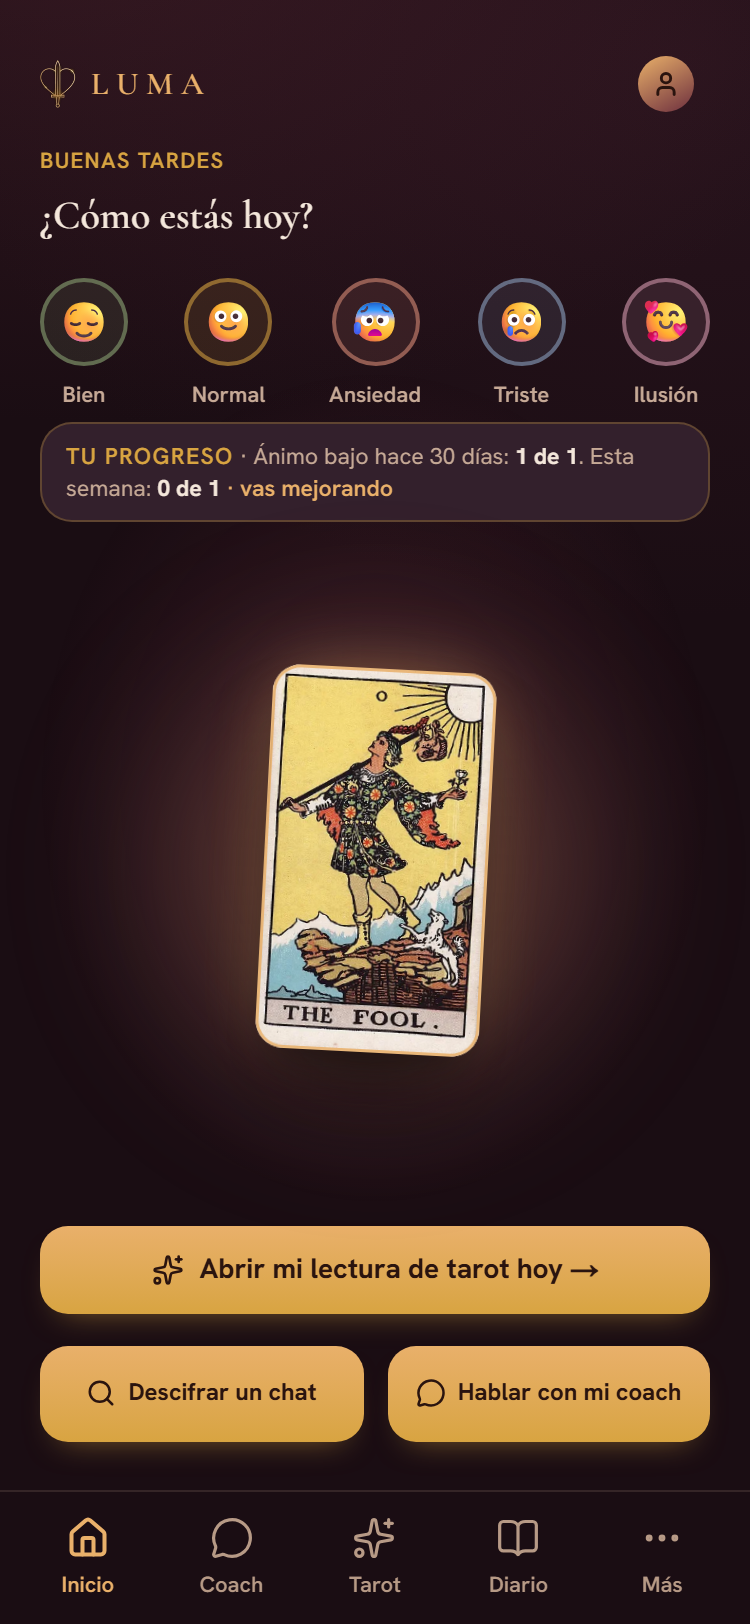
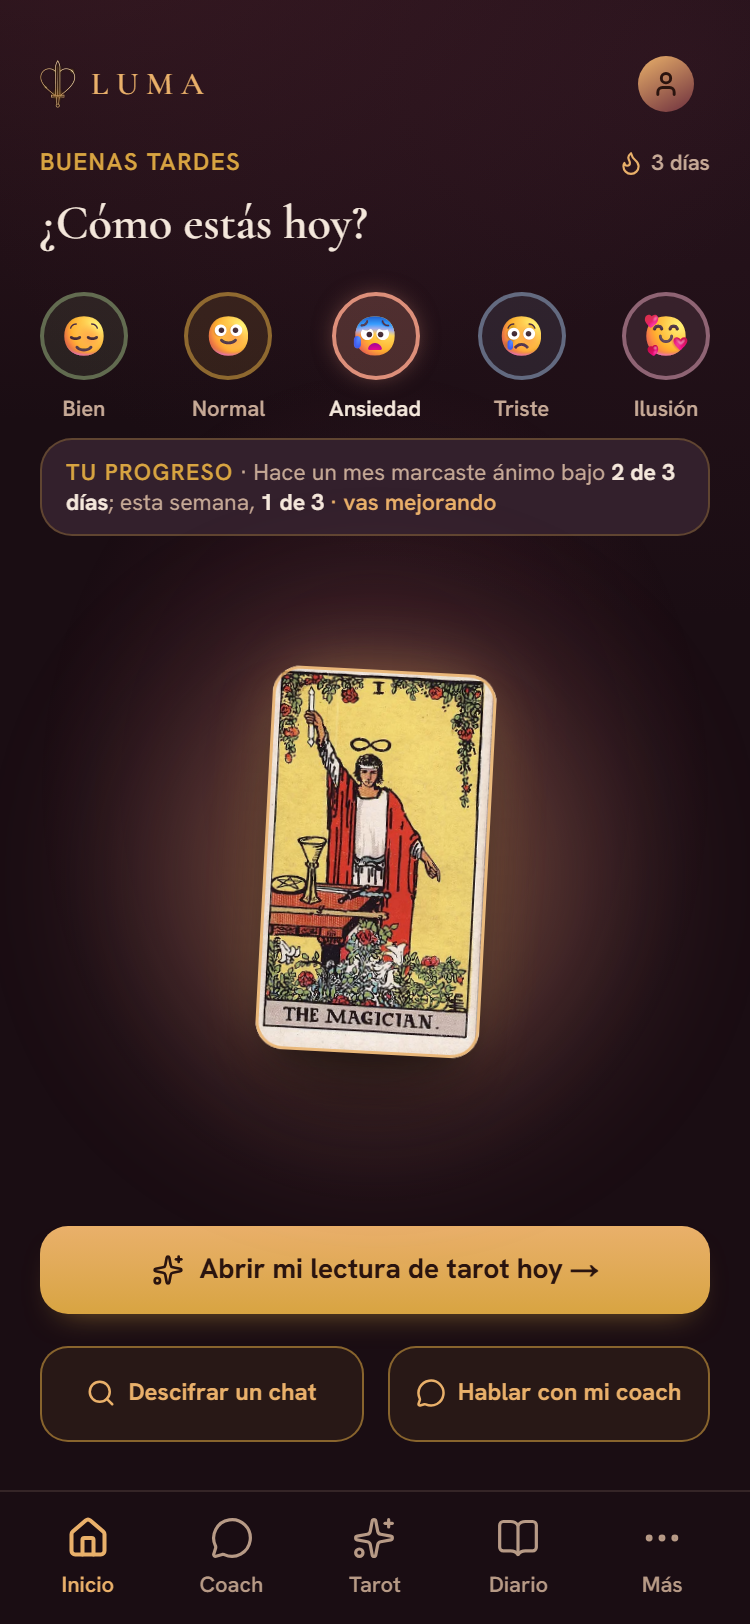
fix(inicio): aviso de guardado honesto, cajita solo con datos suficientes, una sola acción primaria y título más grande

diff --git a/app/app/(tabs)/page.tsx b/app/app/(tabs)/page.tsx
@@ -20,15 +20,23 @@ import { calcularRacha, calcularTermometro, type Checkin, type Termometro } from
 
 const VENTANA_DIAS = 40;
 
+const MIN_REGISTROS = 3;
+
 export default function InicioPage() {
   const [saludo, setSaludo] = useState('Hola');
   const [apodo, setApodo] = useState('');
   const [animo, setAnimo] = useState<string | null>(null);
-  const [guardado, setGuardado] = useState(false);
+  const [aviso, setAviso] = useState<'guardado' | 'error' | null>(null);
   const [userId, setUserId] = useState<string | null>(null);
   const [racha, setRacha] = useState(0);
   const [termometro, setTermometro] = useState<Termometro>({ haceUnMes: null, estaSemana: null });
-  const hayProgreso = Boolean(termometro.haceUnMes && termometro.estaSemana);
+  // Con 1 o 2 registros una «mejora» no significa nada: la cajita pide al menos 3 días en cada ventana.
+  const hayProgreso = Boolean(
+    termometro.haceUnMes &&
+    termometro.estaSemana &&
+    termometro.haceUnMes.total >= MIN_REGISTROS &&
+    termometro.estaSemana.total >= MIN_REGISTROS
+  );
   // Carta decorativa: un arcano mayor al azar (sin relación con la «Carta del día» de Tarot). Se elige tras montar para no desajustar la hidratación.
   const [arcano, setArcano] = useState<{ nombre: string; image: string } | null>(null);
   useEffect(() => {
@@ -71,15 +79,29 @@ export default function InicioPage() {
     setTermometro(calcularTermometro(checkins));
   }
 
+  function mostrarAviso(tipo: 'guardado' | 'error') {
+    setAviso(tipo);
+    window.setTimeout(() => setAviso(null), tipo === 'error' ? 3600 : 2200);
+  }
+
   function elegirAnimo(id: string) {
     setAnimo(id);
-    setGuardado(true);
-    window.setTimeout(() => setGuardado(false), 2200);
+    // Sin cuenta el ánimo no se guarda en ninguna parte: tampoco se dice que sí.
     if (!userId) return;
     void (async () => {
       const supabase = crearClienteNavegador();
-      const { error } = await supabase.from('checkins').insert({ user_id: userId, animo: id });
-      if (error) return;
+      let fallo = false;
+      try {
+        const { error } = await supabase.from('checkins').insert({ user_id: userId, animo: id });
+        fallo = Boolean(error);
+      } catch {
+        fallo = true;
+      }
+      if (fallo) {
+        mostrarAviso('error');
+        return;
+      }
+      mostrarAviso('guardado');
       const desde = new Date();
       desde.setDate(desde.getDate() - VENTANA_DIAS);
       const { data } = await supabase
@@ -129,7 +151,7 @@ export default function InicioPage() {
       >
         <div>
           <div className="flex items-center justify-between">
-            <p className="text-[11px] font-semibold uppercase tracking-[0.06em] text-[var(--accent)]">{apodo ? `${saludo}, ${apodo}` : saludo}</p>
+            <p className="text-[12px] font-semibold uppercase tracking-[0.06em] text-[var(--accent)]">{apodo ? `${saludo}, ${apodo}` : saludo}</p>
             {racha >= 2 && (
               <span className="flex items-center gap-1 text-[11px] font-semibold text-[var(--text-secondary)]">
                 <Flame size={13} strokeWidth={2} aria-hidden="true" className="text-[var(--accent-lite)]" />
@@ -137,7 +159,7 @@ export default function InicioPage() {
               </span>
             )}
           </div>
-          <h1 className="mt-1 text-[20px] font-semibold text-[var(--text-primary)] [font-family:var(--font-display)]">
+          <h1 className="mt-1 text-[24px] font-semibold text-[var(--text-primary)] [font-family:var(--font-display)]">
             ¿Cómo estás hoy?
           </h1>
           <div className="mt-4 [@media(max-height:620px)]:mt-2">
@@ -154,15 +176,20 @@ export default function InicioPage() {
             }
           >
             <AnimatePresence mode="wait" initial={false}>
-              {guardado ? (
+              {aviso ? (
                 <motion.p
-                  key="guardado"
+                  key={aviso}
+                  role={aviso === 'error' ? 'alert' : 'status'}
                   initial={{ opacity: 0, y: -4 }}
                   animate={{ opacity: 1, y: 0 }}
                   exit={{ opacity: 0 }}
-                  className="inline-flex items-center gap-1.5 rounded-full bg-[color-mix(in_oklab,var(--accent)_16%,transparent)] px-3 py-1 text-[11px] font-semibold text-[var(--accent-lite)]"
+                  className={
+                    aviso === 'error'
+                      ? 'inline-flex items-center gap-1.5 rounded-full bg-[color-mix(in_oklab,var(--an-risk)_16%,transparent)] px-3 py-1 text-[12px] font-semibold text-[var(--an-risk)]'
+                      : 'inline-flex items-center gap-1.5 rounded-full bg-[color-mix(in_oklab,var(--accent)_16%,transparent)] px-3 py-1 text-[12px] font-semibold text-[var(--accent-lite)]'
+                  }
                 >
-                  ✓ Guardado en tu diario
+                  {aviso === 'error' ? 'No pudimos guardar tu ánimo. Toca de nuevo.' : '✓ Guardado en tu diario'}
                 </motion.p>
               ) : (
                 hayProgreso &&
@@ -176,12 +203,12 @@ export default function InicioPage() {
                     className="rounded-[var(--radius-card)] border border-[color-mix(in_oklab,var(--accent)_28%,transparent)] bg-[var(--surface)] px-3 py-2"
                   >
                     <p className="text-[11.5px] leading-snug text-[var(--text-secondary)]">
-                      <span className="font-semibold uppercase tracking-[0.06em] text-[var(--accent)]">Tu progreso</span> · Ánimo bajo hace 30
-                      días:{' '}
+                      <span className="font-semibold uppercase tracking-[0.06em] text-[var(--accent)]">Tu progreso</span> · Hace un mes
+                      marcaste ánimo bajo{' '}
                       <strong className="text-[var(--text-primary)]">
-                        {termometro.haceUnMes.negativos} de {termometro.haceUnMes.total}
+                        {termometro.haceUnMes.negativos} de {termometro.haceUnMes.total} días
                       </strong>
-                      . Esta semana:{' '}
+                      ; esta semana,{' '}
                       <strong className="text-[var(--text-primary)]">
                         {termometro.estaSemana.negativos} de {termometro.estaSemana.total}
                       </strong>
@@ -217,14 +244,14 @@ export default function InicioPage() {
         <div className="grid shrink-0 grid-cols-2 gap-3 pb-2 [@media(max-height:620px)]:pb-0">
           <Link
             href="/app/descifrar"
-            className="flex min-h-[48px] w-full items-center justify-center gap-1.5 rounded-[var(--radius-button)] bg-gradient-to-b from-[var(--accent-lite)] to-[var(--accent)] px-3 py-2 text-center text-[12px] font-bold leading-snug text-[var(--on-accent)] shadow-[0_8px_16px_-10px_color-mix(in_oklab,var(--accent)_60%,transparent)] transition-transform duration-150 [touch-action:manipulation] focus-visible:outline-none focus-visible:ring-2 focus-visible:ring-[var(--accent-lite)] focus-visible:ring-offset-2 focus-visible:ring-offset-[var(--bg)] [@media(max-height:620px)]:min-h-9 [@media(max-height:620px)]:py-1 [@media(max-height:620px)]:text-[11px]"
+            className="flex min-h-[48px] w-full items-center justify-center gap-1.5 rounded-[var(--radius-button)] border border-[color-mix(in_oklab,var(--accent)_55%,transparent)] bg-[color-mix(in_oklab,var(--accent)_8%,transparent)] px-3 py-2 text-center text-[12px] font-bold leading-snug text-[var(--accent-lite)] transition-transform duration-150 [touch-action:manipulation] focus-visible:outline-none focus-visible:ring-2 focus-visible:ring-[var(--accent-lite)] focus-visible:ring-offset-2 focus-visible:ring-offset-[var(--bg)] [@media(max-height:620px)]:min-h-9 [@media(max-height:620px)]:py-1 [@media(max-height:620px)]:text-[11px]"
           >
             <Search size={15} strokeWidth={2} aria-hidden="true" />
             Descifrar un chat
           </Link>
           <Link
             href="/app/coach"
-            className="flex min-h-[48px] w-full items-center justify-center gap-1.5 rounded-[var(--radius-button)] bg-gradient-to-b from-[var(--accent-lite)] to-[var(--accent)] px-3 py-2 text-center text-[12px] font-bold leading-snug text-[var(--on-accent)] shadow-[0_8px_16px_-10px_color-mix(in_oklab,var(--accent)_60%,transparent)] transition-transform duration-150 [touch-action:manipulation] focus-visible:outline-none focus-visible:ring-2 focus-visible:ring-[var(--accent-lite)] focus-visible:ring-offset-2 focus-visible:ring-offset-[var(--bg)] [@media(max-height:620px)]:min-h-9 [@media(max-height:620px)]:py-1 [@media(max-height:620px)]:text-[11px]"
+            className="flex min-h-[48px] w-full items-center justify-center gap-1.5 rounded-[var(--radius-button)] border border-[color-mix(in_oklab,var(--accent)_55%,transparent)] bg-[color-mix(in_oklab,var(--accent)_8%,transparent)] px-3 py-2 text-center text-[12px] font-bold leading-snug text-[var(--accent-lite)] transition-transform duration-150 [touch-action:manipulation] focus-visible:outline-none focus-visible:ring-2 focus-visible:ring-[var(--accent-lite)] focus-visible:ring-offset-2 focus-visible:ring-offset-[var(--bg)] [@media(max-height:620px)]:min-h-9 [@media(max-height:620px)]:py-1 [@media(max-height:620px)]:text-[11px]"
           >
             <MessageCircle size={15} strokeWidth={2} aria-hidden="true" />
             Hablar con mi coach
